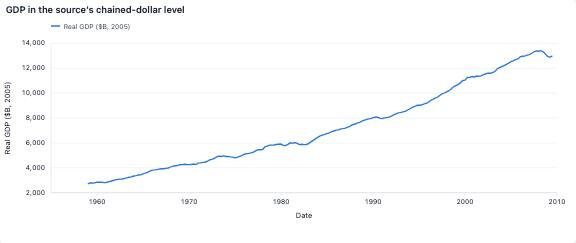
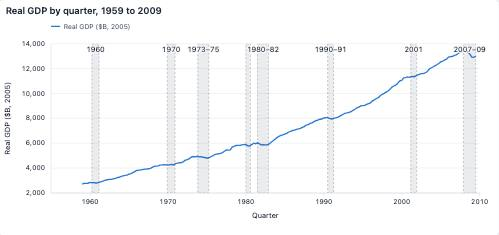
feat(daily): rewrite macro-level-versus-growth around the recessions

diff --git a/apps/demo/public/daily-viz/projects/macro/level-versus-growth.eda.md b/apps/demo/public/daily-viz/projects/macro/level-versus-growth.eda.md
@@ -1,66 +1,68 @@
-# A rising GDP level can conceal falling quarterly growth
+# GDP grew almost fivefold; 28 quarters still shrank
 
-**What does U.S. GDP look like once you chart its growth rate instead of its level?** Each row is one US calendar quarter.
+**How much of fifty years of American growth was actually growth?** Each row is one US quarter from 1959 to 2009, with real GDP in chained 2005 dollars and the annualized rate of change from the quarter before. Charted as a level, the economy looks like a ramp. Charted as a rate, it crosses zero again and again, and each crossing costs jobs.
 
 ```eda
 eda query=r
 realgdp:num=r.realgdp label="Real GDP ($B, 2005)"
-date:date=r.date label="Date"
+date:date=r.date label="Quarter"
 gdp_growth:num=r.gdp_growth label="GDP growth (annualized %)"
-gdp_change:num=r.gdp_change label="Change in real GDP ($B, 2005)"
 unemp_change:num=r.unemp_change label="Change in unemployment (points)"
+calc sign = gdp_growth == null ? null : gdp_growth < 0 ? "Quarter shrank" : "Quarter grew"
 ```
 
-## 1. GDP in the source’s chained-dollar level
+## The level climbs through eight recessions
 
-The level retains scale and historical size. A large vertical range can make short contractions visually subtle.
-
-```eda
-line @nb-macro-level-versus-growth-chart-1 x=date y=realgdp title="GDP in the source’s chained-dollar level" x.title="Date" y.title="Real GDP ($B, 2005)"
-```
-
-## 2. Annualized quarterly growth on a zero reference
-
-Growth is computed from adjacent quarters using a compounded annualization. The zero line separates positive from negative changes without inventing recession classifications.
+Real GDP began at $2,710 billion in 1959 and stood at $12,990 billion in the third quarter of 2009, almost five times as large. The shaded bands are the eight NBER recessions in the span. On this axis most of them are a flat step; only 2008 and 2009 read as a fall.
 
 ```eda
-line @nb-macro-level-versus-growth-chart-2 x=date y=gdp_growth title="Annualized quarterly growth on a zero reference" x.title="Date" y.title="GDP growth (annualized %)" {
-  rule y=0 "No quarterly change"
+line @nb-macro-level-versus-growth-chart-1 x=date y=realgdp title="Real GDP by quarter, 1959 to 2009" x.title="Quarter" y.title="Real GDP ($B, 2005)" {
+  band x=1960-04-01..1961-02-28 "1960"
+  band x=1969-12-01..1970-11-30 "1970"
+  band x=1973-11-01..1975-03-31 "1973–75"
+  band x=1980-01-01..1980-07-31
+  band x=1981-07-01..1982-11-30 "1980–82"
+  band x=1990-07-01..1991-03-31 "1990–91"
+  band x=2001-03-01..2001-11-30 "2001"
+  band x=2007-12-01..2009-06-30 "2007–09"
 }
 ```
 
-**Finding.** The smallest derived annualized quarterly GDP growth rate was -7.95%.
+## The growth rate crossed zero in 28 quarters
 
-## 3. The distribution of quarterly growth rates
-
-The histogram counts available quarter-to-quarter comparisons. It loses chronology, so a cluster of negative observations cannot be located from this view alone.
+Divide each quarter by the one before and the ramp becomes a saw. 28 of the 202 quarters shrank. The deepest was the second quarter of 1980, when annualized GDP growth fell to -7.95%. The fastest was 1978's second quarter, at 16.69%.
 
 ```eda
-hist @nb-macro-level-versus-growth-chart-3 gdp_growth bins=24 title="The distribution of quarterly growth rates" x.title="GDP growth (annualized %)" y.title="Rows"
+line @nb-macro-level-versus-growth-chart-2 x=date y=gdp_growth title="Annualized quarterly GDP growth, 1959 to 2009" x.title="Quarter" y.title="GDP growth (annualized %)" {
+  rule y=0 "No change"
+  callout "1980 Q2: −8%" pick=min
+  callout "1978 Q2: +17%" pick=max
+}
 ```
 
-## 4. GDP change and unemployment change
+## A shrinking quarter adds half a point of unemployment
 
-These are two first differences from the same quarterly sequence. Association is descriptive and does not identify a structural labor-market response.
+Split the quarters by the sign of growth and the jobs cost appears: the curve for shrinking quarters sits to the right of the curve for growing ones. In quarters when GDP shrank, unemployment rose by 0.51 points on average. In quarters when GDP grew, unemployment changed by -0.06 points on average. The biggest single jump, 1.6 points, came in the first quarter of 1975.
 
 ```eda
-scatter @nb-macro-level-versus-growth-chart-4 x=gdp_change y=unemp_change title="GDP change and unemployment change" x.title="Change in real GDP ($B, 2005)" y.title="Change in unemployment (points)"
+ecdf @nb-macro-level-versus-growth-chart-3 unemp_change color=sign direction=below title="Share of quarters by change in unemployment, by sign of GDP growth" x.title="Change in unemployment (points)"
 ```
 
-**Finding.** The largest derived annualized quarterly GDP growth rate was 16.69%.
+## Most quarters grew between 1% and 6%
 
-## 5. The rows behind the charts
-
-Sort a column or select rows to check any value above. Selections in a notebook stay with their own chart.
+Set time aside and count quarters by their growth rate. The mean annualized growth rate was 3.22%, and the bars cluster around it. 13.9% of quarters shrank, all in the left tail beyond the zero line.
 
 ```eda
-table @nb-macro-level-versus-growth-records date,realgdp,gdp_change,gdp_growth,unemp_change title="Records behind this comparison"
+hist @nb-macro-level-versus-growth-chart-4 gdp_growth bins=30 title="Quarters by annualized GDP growth" x.title="GDP growth (annualized %)" y.title="Quarters" {
+  rule x=0 "No change"
+  rule x=mean "Mean"
+}
 ```
 
 ## Takeaway
 
-Levels answer how large the measured economy was in the source’s chained dollars. Growth rates answer how rapidly it changed between adjacent quarters. Neither should silently replace the other.
+The American economy grew almost fivefold in fifty years, but one quarter in seven shrank, and those quarters are where unemployment rose. Read a GDP level chart for scale and a growth chart for recessions; neither shows the other.
 
 ## Limits
 
-This is an old source vintage, not current revised GDP. Annualizing a quarterly change is a mathematical convention, not the year-on-year rate. The first quarter has no preceding observation in this file.
+This is the 2009 vintage of the series, before later revisions. Annualizing a one-quarter change is a convention that magnifies noise; the year-on-year rate is smoother. The first quarter has no predecessor and no growth rate.
